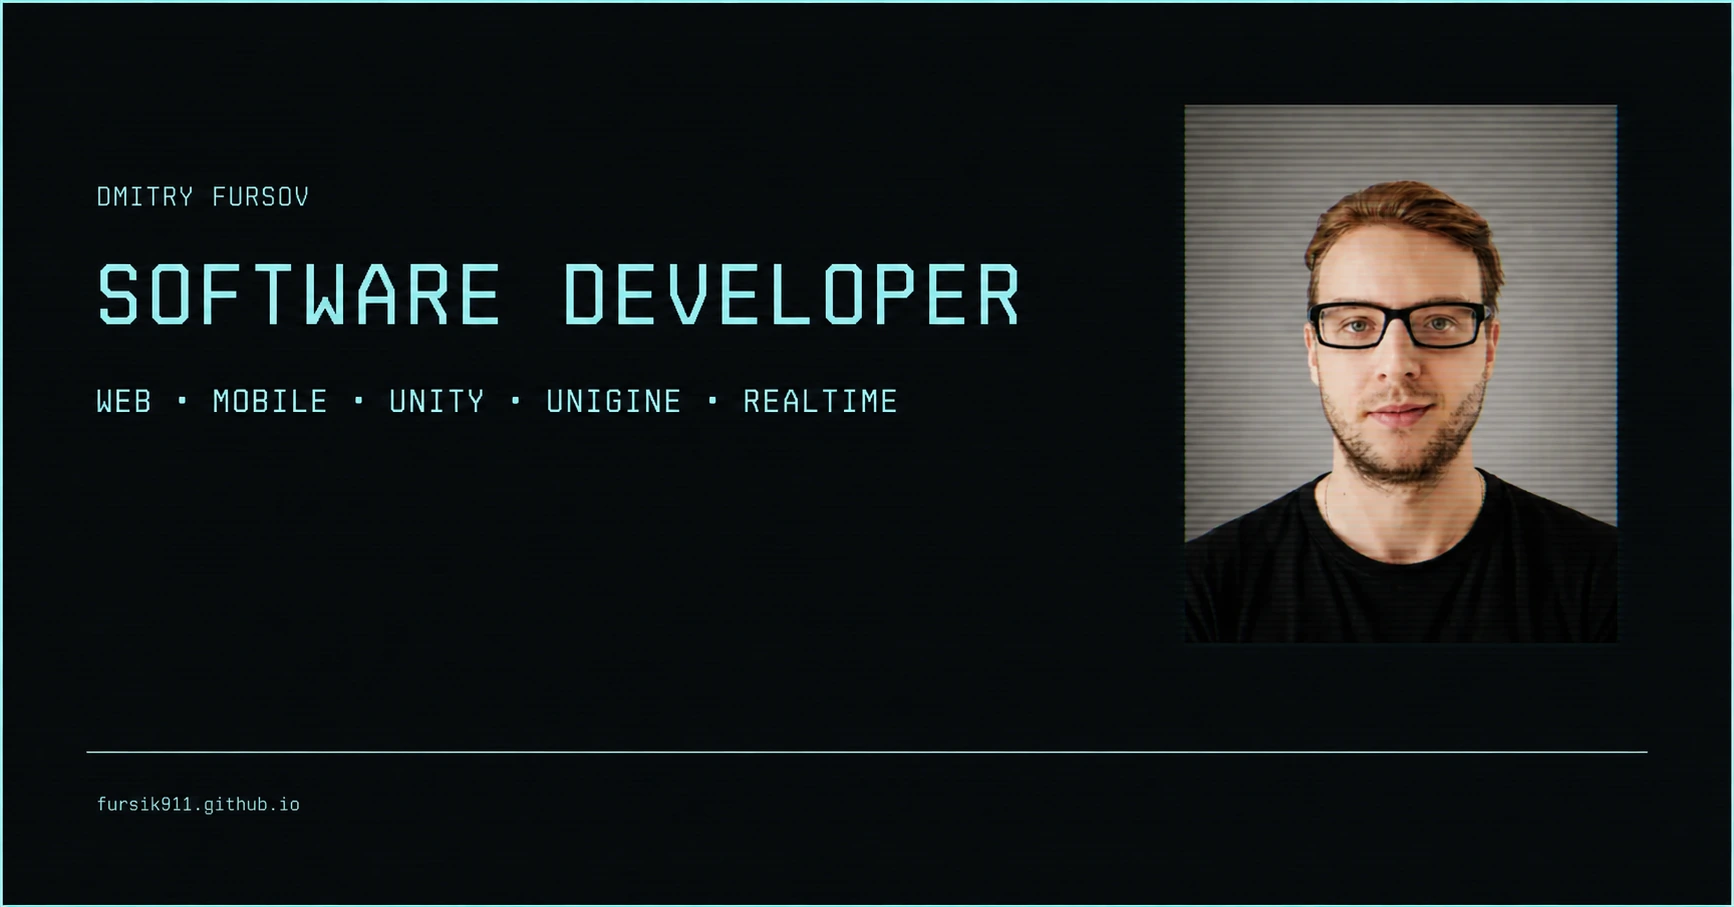
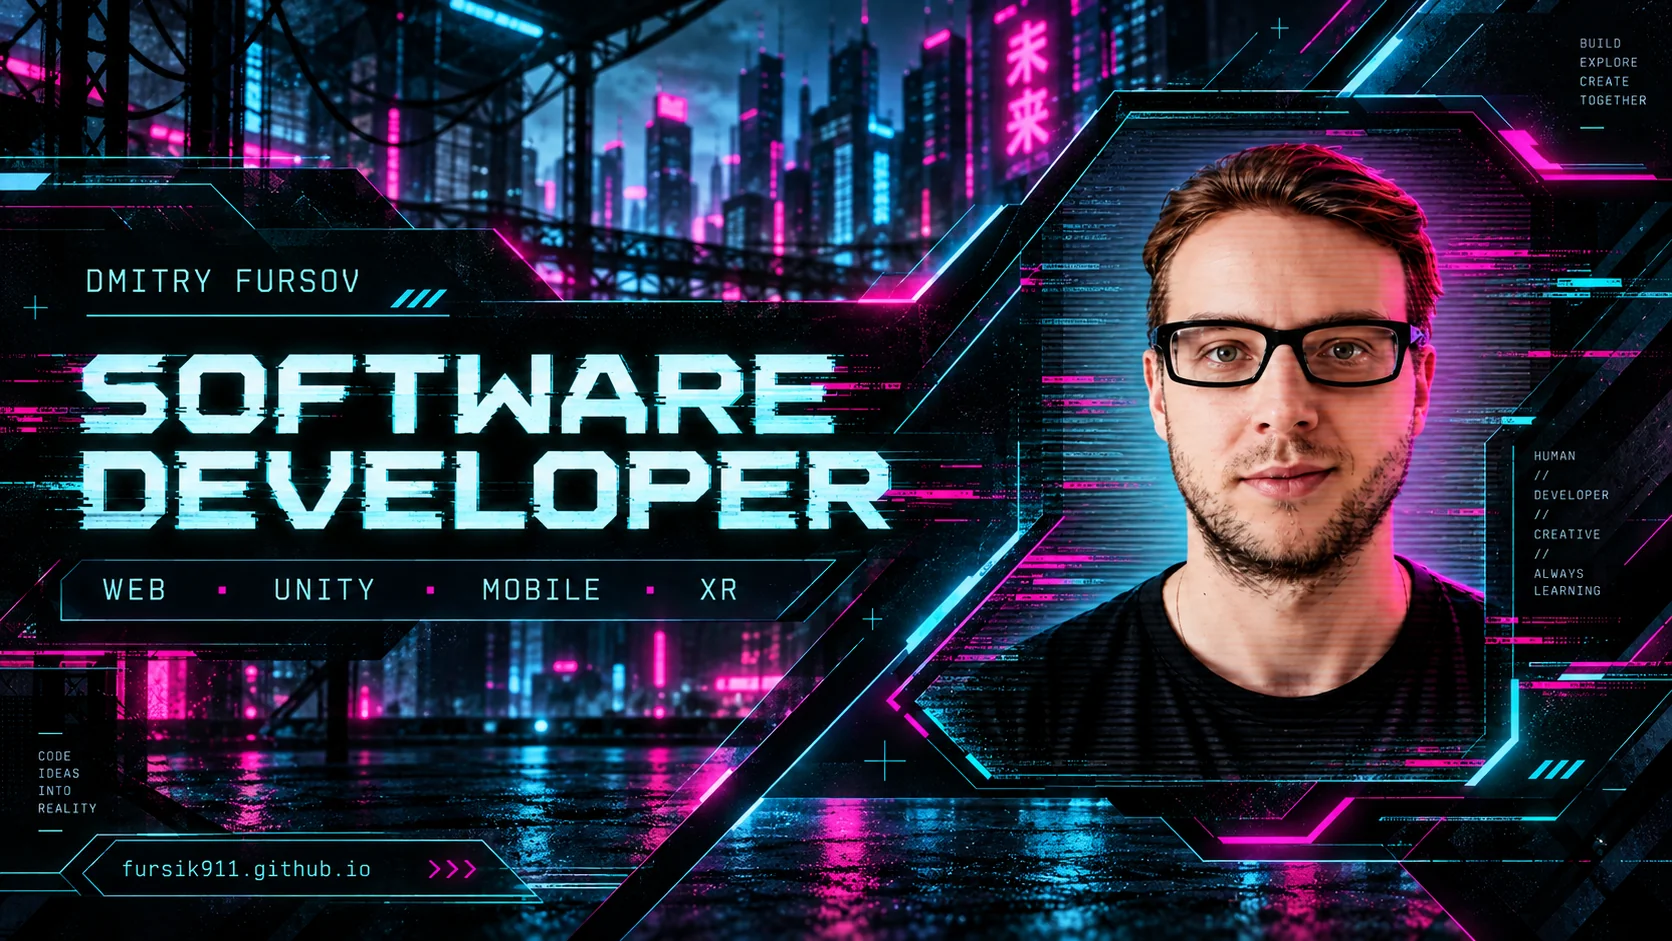
chore: update Open Graph cover image

diff --git a/agent-logs/2026/09/2026-09-16.md b/agent-logs/2026/09/2026-09-16.md
@@ -15,3 +15,19 @@
 ## Decision DEC-20260916-01
 
 - Verify each public release through the matching GitHub Pages workflow and an HTTP check of the live document plus generated JavaScript and CSS assets.
+
+## Open Graph cover image update
+
+### 2026-09-16 01:31 +03:00
+
+- Type: assets, social preview, deployment
+- Tags: og-image, twitter-card, webp, portfolio, github-pages, verification
+- Summary: Replaced `public/og-cover.webp` with the user-provided cyberpunk portfolio cover, converted from PNG to WebP at quality 85 while preserving the source dimensions of 1672×941.
+- Affected areas: Open Graph and Twitter card preview asset; GitHub Pages release.
+- Rationale: Refresh the portfolio preview shown when the site URL is shared in social networks and messengers.
+- Verification: Pending `npm run validate`, production asset verification, commit, push, and GitHub Pages deployment check.
+- Decisions: DEC-20260916-03.
+
+## Decision DEC-20260916-03
+
+- Use the supplied PNG as the portfolio's Open Graph/Twitter preview, convert it to WebP at quality 85, preserve its native 1672×941 dimensions, and publish it through the existing `og:image` and `twitter:image` paths.

diff --git a/agent-logs/DECISIONS.md b/agent-logs/DECISIONS.md
@@ -1,5 +1,7 @@
 # Global Decision Index
 
+| DEC-20260916-03 | Use the supplied PNG as the portfolio's Open Graph/Twitter preview, convert it to WebP at quality 85, preserve its native 1672×941 dimensions, and publish it through the existing `og:image` and `twitter:image` paths. | og-image, twitter-card, webp, portfolio, github-pages, verification | [2026-09-16](2026/09/2026-09-16.md#decision-dec-20260916-03) |
+
 | DEC-20260916-01 | Verify each public release through the matching GitHub Pages workflow and an HTTP check of the live document plus generated JavaScript and CSS assets. | github-pages, deployment, github-actions, production, verification | [2026-09-16](2026/09/2026-09-16.md#decision-dec-20260916-01) |
 
 | DEC-20260915-08 | Use an English, visitor-first README for the public portfolio repository; lead with the live site and existing cover image, include public contact and CV links plus concise setup/deployment instructions, and omit internal research documentation and detailed project listings. | readme, portfolio, github, github-pages, documentation, contacts, setup | [2026-09-15](2026/09/2026-09-15.md#decision-dec-20260915-08) |

diff --git a/agent-logs/2026/09/README.md b/agent-logs/2026/09/README.md
@@ -1,5 +1,7 @@
 # September 2026
 
+| 2026-09-16 | og-image, twitter-card, webp, portfolio, github-pages, verification | [Open Graph cover image update](2026-09-16.md#open-graph-cover-image-update) |
+
 | 2026-09-16 | github-pages, deployment, github-actions, production, verification | [Public portfolio release verification](2026-09-16.md#public-portfolio-release-verification) |
 
 | 2026-09-15 | readme, portfolio, github, github-pages, documentation, contacts, setup | [Public portfolio README](2026-09-15.md#public-portfolio-readme) |
